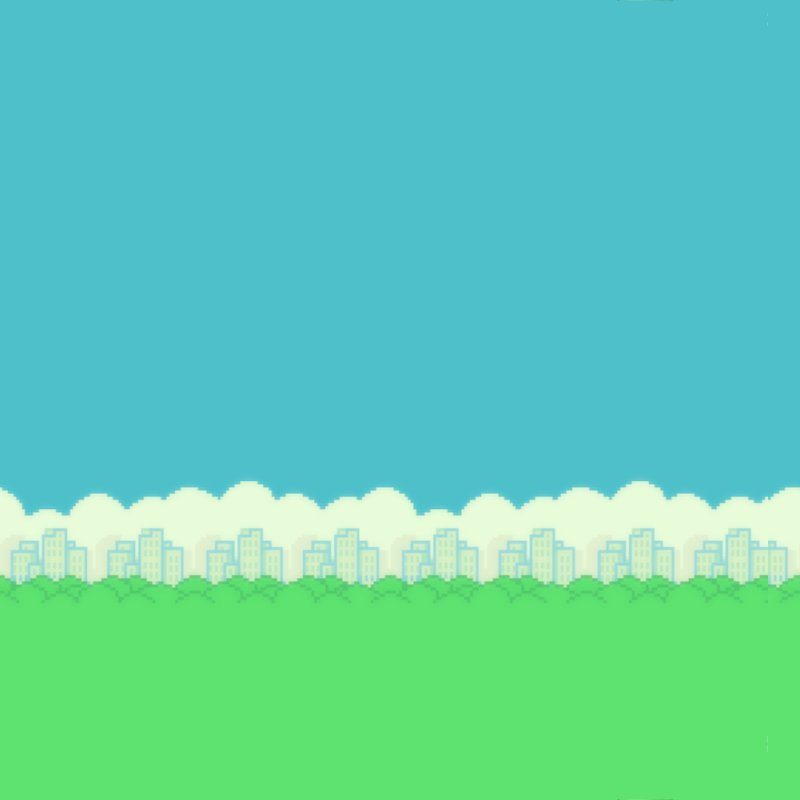
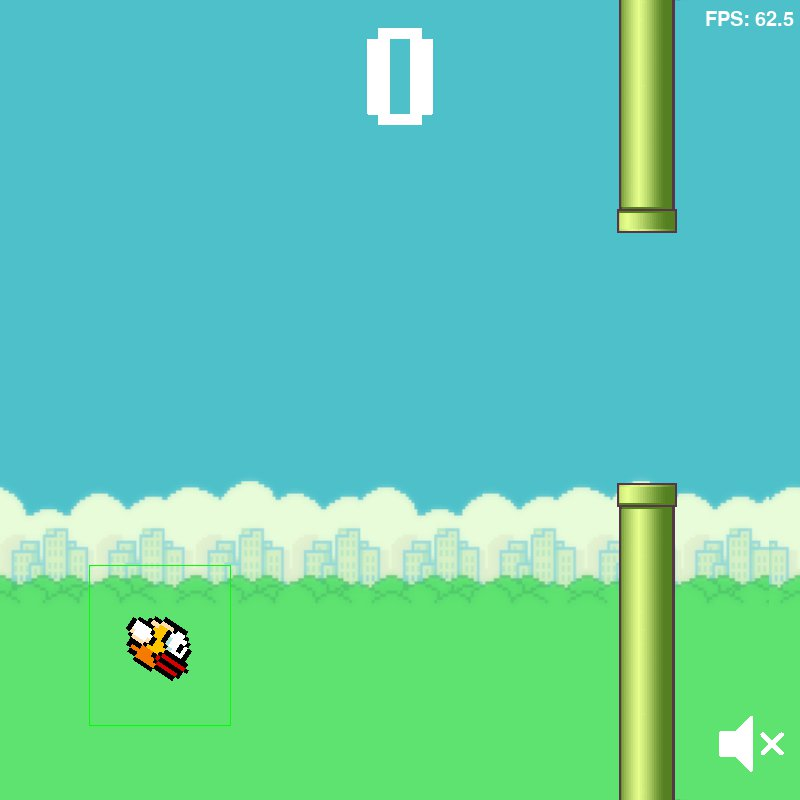
Added resume option

diff --git a/main.py b/main.py
@@ -1,5 +1,4 @@
 from cmath import rect
-from turtle import color
 from unicodedata import digit
 import pygame  # game library
 import const  # declaration of constants
@@ -29,6 +28,7 @@ p_trig_key_space = False
 pause = False
 pause_trig, pause_trig_before, p_trig_pause = False, False, False
 score, score_trig, score_trig_before, p_trig_score = 0, False, False, False
+
 # global variable, current player frame in animation
 current_player_frame = 0
 
@@ -65,12 +65,19 @@ key_space_down = False
 key_space_up = False
 key_space_down_before = False
 
+
+resume_limt = True
+limit_trig, limit_trig_before, p_trig_limit = False, False, False
+
 # -----------game texts-------------------------------
 game_texts_image = []
 game_texts_center_pos = []
 # includes a graphic of numbers
 score_images = []
 game_score_center_pos = []
+
+resume_done, resume_trig, resume_trig_before, p_trig_resume = False, False, False, False
+counter_resume = 0
 
 # ----------------------------------------------------
 
@@ -562,21 +569,22 @@ def screenshot_fun(time):
 def count_points(do_fun, no_mute):
     global score, score_trig, score_trig_before, p_trig_score, walls
     if do_fun:
-        if walls[0].left < pos_x and walls[0].left > 0:
-            # print(walls[0].left)
-            score_trig = True
-            if not score_trig_before:
-                score_trig_before = True
-                p_trig_score = True
-        else:
-            score_trig = False
-            score_trig_before = False
+        if len(walls):
+            if walls[0].left < pos_x and walls[0].left > 0:
+                # print(walls[0].left)
+                score_trig = True
+                if not score_trig_before:
+                    score_trig_before = True
+                    p_trig_score = True
+            else:
+                score_trig = False
+                score_trig_before = False
 
-        if p_trig_score:
-            score += 1
-            score_sound_event(no_mute)
-            # print("Score: ",score)
-            p_trig_score = False
+            if p_trig_score:
+                score += 1
+                score_sound_event(no_mute)
+                # print("Score: ",score)
+                p_trig_score = False
 
 
 def key_pause(game_over):
@@ -610,33 +618,50 @@ def key_pause(game_over):
         show_pause(pause)
 
 
+def key_resume():
+    # do once
+    # global i
+
+    global resume_trig, resume_trig_before, p_trig_resume, kill_player
+    keys = pygame.key.get_pressed()
+
+    if keys[pygame.K_r] and kill_player:
+        resume_trig = True
+        if not resume_trig_before:
+            resume_trig_before = True
+            p_trig_resume = True
+        pass
+    else:
+        resume_trig = False
+        resume_trig_before = False
+        pass
+
+    if p_trig_resume:
+        # i += 1
+        # print("Resume: ",i)
+        if (kill_player):
+            resets_all_statistics()
+
+
 def game_texts_image_preload(game_texts_image, scale):
     # Pause -> game_texts_image[0]
-    pause_surface = pygame.image.load(
-        'imgs\Pause.png').convert_alpha()
+    pause_surface = pygame.image.load('imgs\Pause.png').convert_alpha()
     pause_surface = pygame.transform.scale(
         pause_surface, (pause_surface.get_width()*scale, pause_surface.get_height()*scale))
     game_texts_image.append(pause_surface)
 
     # Game_over -> game_texts_image[1]
-    game_over_surface = pygame.image.load(
-        'imgs\Game_over.png').convert_alpha()
+    game_over_surface = pygame.image.load('imgs\Game_over.png').convert_alpha()
     game_over_surface = pygame.transform.scale(
         game_over_surface, (game_over_surface.get_width()*scale, game_over_surface.get_height()*scale))
     game_texts_image.append(game_over_surface)
 
-
-def game_score_image_preload(list_images, scale):
-
-    digit_images = ['imgs\digits\\0.png', 'imgs\digits\\1.png', 'imgs\digits\\2.png', 'imgs\digits\\3.png', 'imgs\digits\\4.png',
-                    'imgs\digits\\5.png', 'imgs\digits\\6.png', 'imgs\digits\\7.png', 'imgs\digits\\8.png', 'imgs\digits\\9.png']
-
-    for image in digit_images:
-        list_images.append(pygame.image.load(image).convert_alpha())
-
-    for idx, scaled_image in enumerate(list_images):
-        list_images[idx] = pygame.transform.scale(
-            scaled_image, (scaled_image.get_width()*scale, scaled_image.get_height()*scale))
+    # Resume -> game_texts_image[2]
+    scale *= 1.1
+    resume_surface = pygame.image.load('imgs\\resume.png').convert_alpha()
+    resume_surface = pygame.transform.scale(
+        resume_surface, (resume_surface.get_width()*scale, resume_surface.get_height()*scale))
+    game_texts_image.append(resume_surface)
 
 
 def game_texts_center_pos_preload(game_texts_center_pos):
@@ -650,10 +675,29 @@ def game_texts_center_pos_preload(game_texts_center_pos):
     game_texts_center_pos.append(pause_center_pos)
 
     # Game_over center position on window -> game_texts_center_pos[1]
-    game_over_surface_rect = game_texts_image[1].get_rect(center=(25, -125))
-    wgame_over_center_pos = window_center_pos[0] + \
+    game_over_surface_rect = game_texts_image[1].get_rect(center=(25, -200))
+    game_over_center_pos = window_center_pos[0] + \
         game_over_surface_rect.x, window_center_pos[1]+game_over_surface_rect.y
-    game_texts_center_pos.append(wgame_over_center_pos)
+    game_texts_center_pos.append(game_over_center_pos)
+
+    # Resume center position on window -> game_texts_center_pos[2]
+    resume_surface_rect = game_texts_image[2].get_rect(center=(25, 45))
+    resume_center_pos = window_center_pos[0] + \
+        resume_surface_rect.x, window_center_pos[1]+resume_surface_rect.y
+    game_texts_center_pos.append(resume_center_pos)
+
+
+def game_score_image_preload(list_images, scale):
+
+    digit_images = ['imgs\digits\\0.png', 'imgs\digits\\1.png', 'imgs\digits\\2.png', 'imgs\digits\\3.png', 'imgs\digits\\4.png',
+                    'imgs\digits\\5.png', 'imgs\digits\\6.png', 'imgs\digits\\7.png', 'imgs\digits\\8.png', 'imgs\digits\\9.png']
+
+    for image in digit_images:
+        list_images.append(pygame.image.load(image).convert_alpha())
+
+    for idx, scaled_image in enumerate(list_images):
+        list_images[idx] = pygame.transform.scale(
+            scaled_image, (scaled_image.get_width()*scale, scaled_image.get_height()*scale))
 
 
 def game_score_center_pos_preload(game_score_center_pos):
@@ -711,18 +755,38 @@ def show_pause(show):
         window.blit(game_texts_image[0], (game_texts_center_pos[0]))
 
 
-def show_game_over():
+def show_game_over_and_resume():
     global window, game_texts_image, game_texts_center_pos
     window.blit(game_texts_image[1], (game_texts_center_pos[1]))
+    window.blit(game_texts_image[2], (game_texts_center_pos[2]))
+
+
+def resets_all_statistics():
+    global score, walls, pause, game_over_fun_active, kill_player, current_player_frame, resume_done, p_trig_resume, music_button_plays
+
+    score = 0
+    walls.clear()
+    current_player_frame = 0
+    if kill_player or game_over_fun_active:
+        pause = False
+        kill_player = False
+        game_over_fun_active = False
+
+    p_trig_resume = False
+    resume_done = True
+
+    once_generate_walls()
+    music_button_plays = True
+    do_play_music(music_button_plays)
 
 
 def game_over(perform):
-    global kill_player, pause, game_over_fun_active, current_player_frame, music_button_plays
+    global kill_player, pause, game_over_fun_active, current_player_frame, music_button_plays, resume_done
     # perform = False
     if perform:
         if kill_player:
             current_player_frame = 3
-            show_game_over()
+            show_game_over_and_resume()
             music_button_plays = False
             do_play_music(music_button_plays)
             pause = True
@@ -740,7 +804,6 @@ background_surface = pygame.image.load(
 # character sprite preload
 sprite_image_preload(
     character_frames, 'imgs\\flappy_sprite.png', 4, const.scale, 'RED')
-
 
 # buton_mute sprite preload
 sprite_image_preload(buton_mute_image, 'imgs\\mute_sprite.png', 2, 1, 'BLACK')
@@ -807,7 +870,10 @@ while running:
     show_score()
 
     key_pause(game_over_fun_active)
-    threading.Thread(target=game_over, args=[True]).start()
+    game_over(True)
+    # threading.Thread(target=game_over, args=[True]).start()
+    key_resume()
+
     # make screenshot after 0.5 sec
     screenshot_fun(0.5)
     # Update the display
